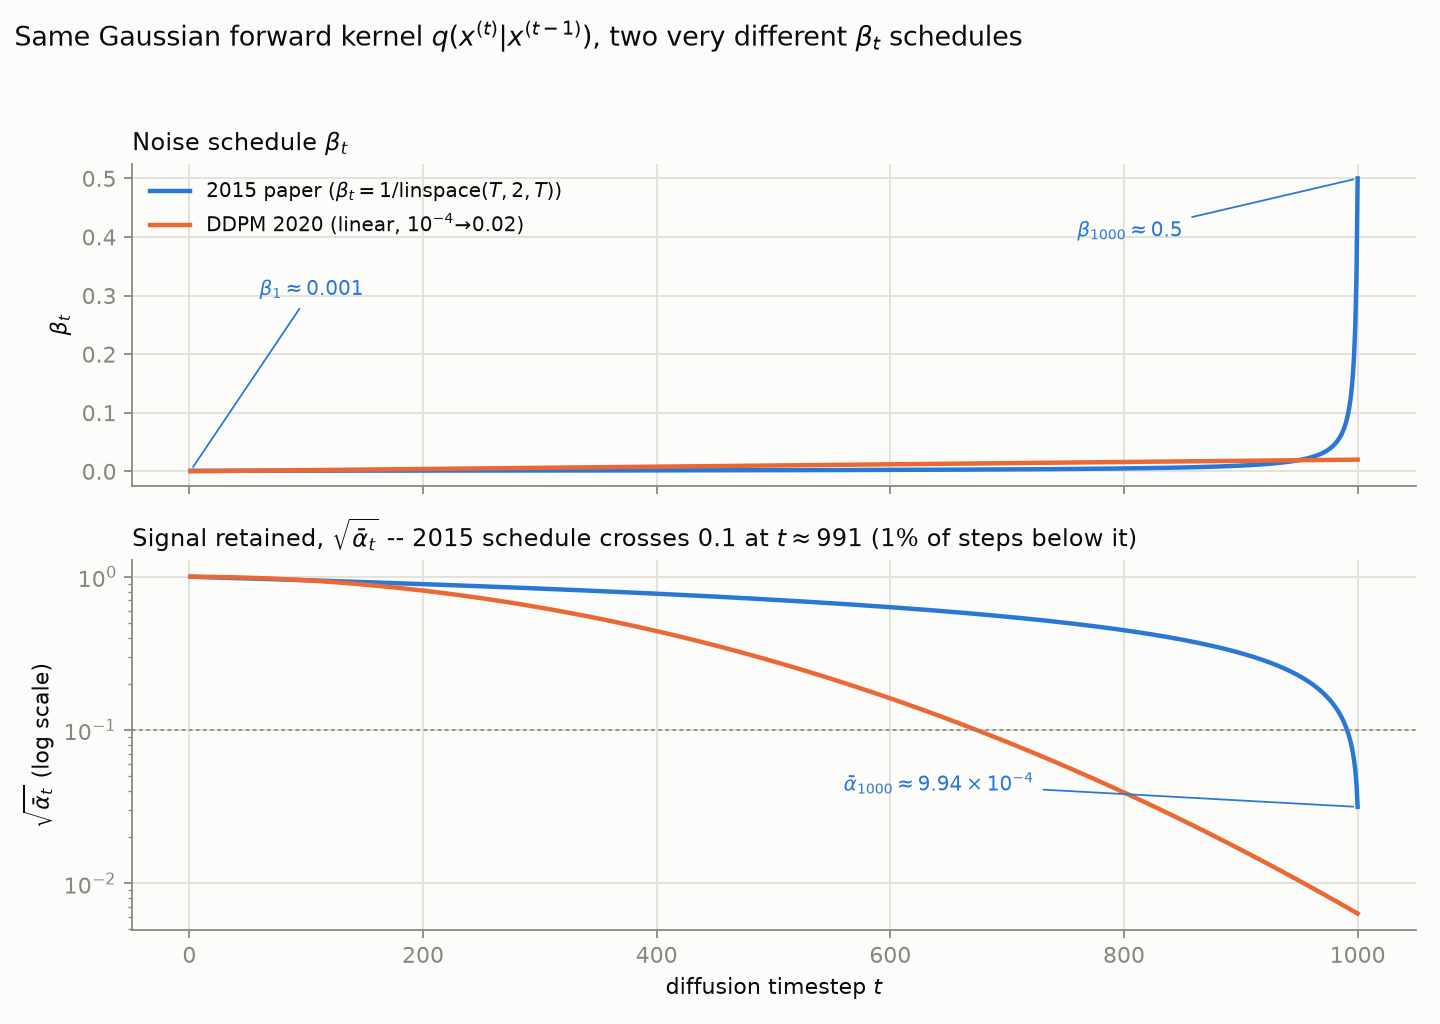
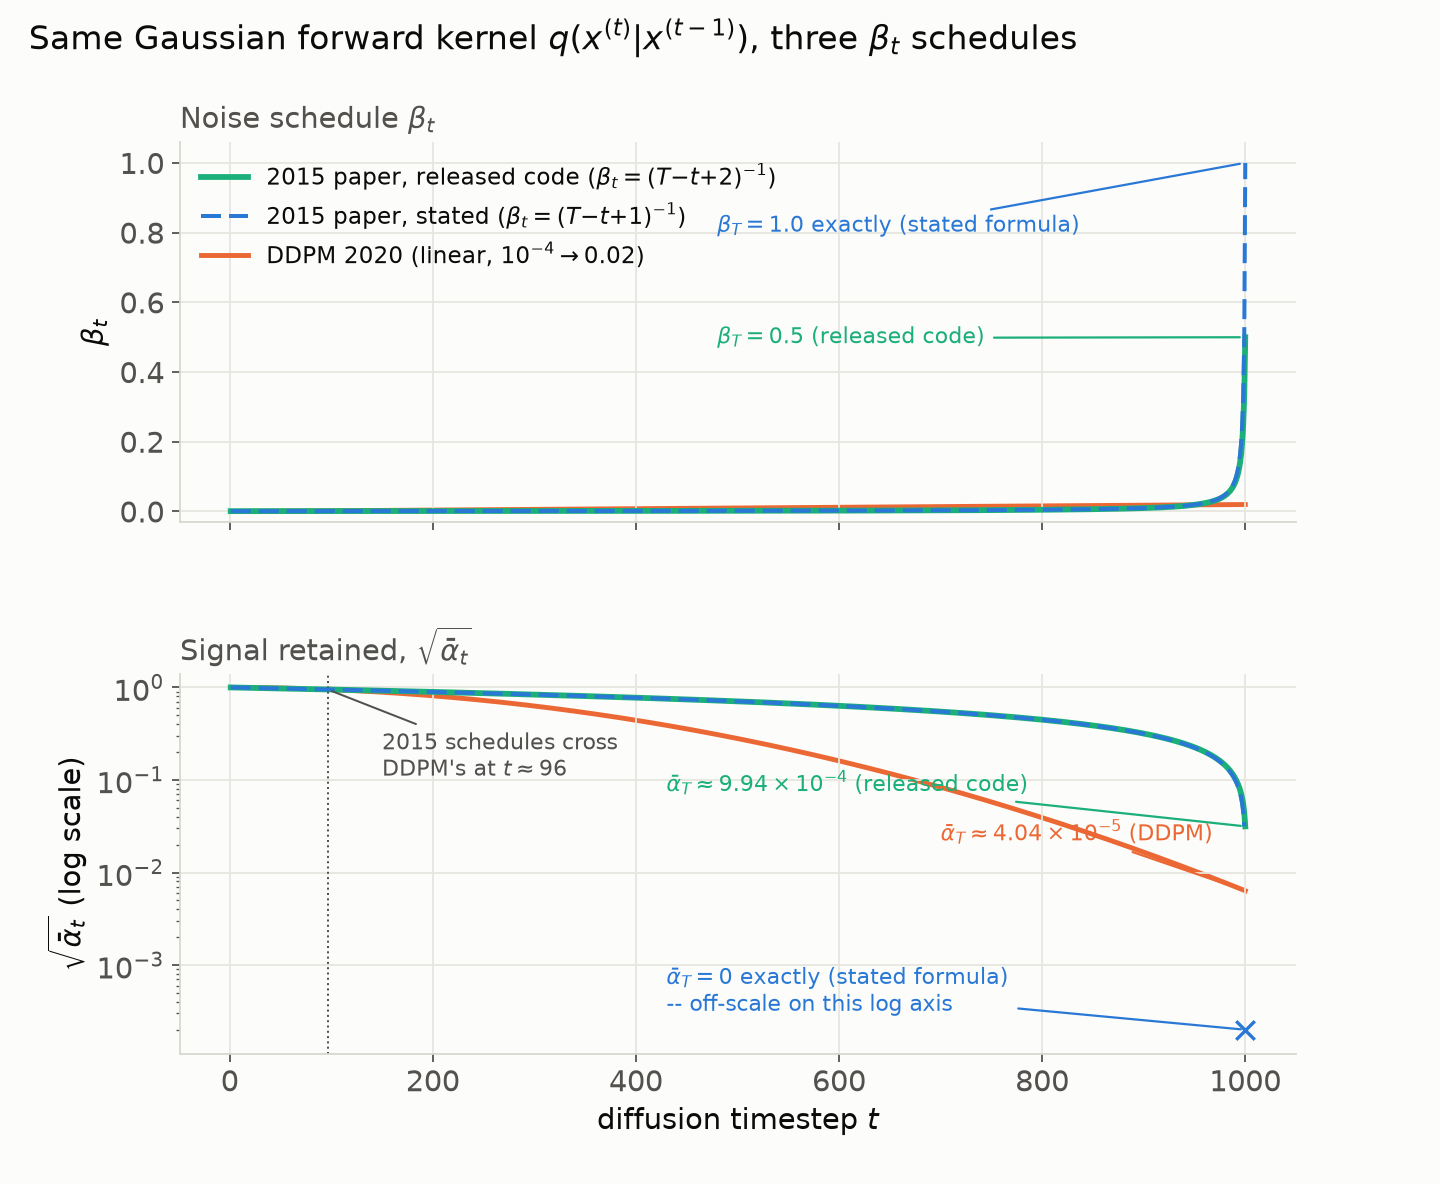
docs: fix review-pass findings in the diffusion paper review and audit posts
Corrects the beta-schedule section's attribution (the closed form is the
binomial schedule from Sec. 2.4.1, carried to Gaussian diffusion only on
footnote 2's authority) and its code (1/linspace(T,2,T) implements
(T-t+2)^-1, not the paper's stated (T-t+1)^-1). Adds a new paragraph and a
regenerated three-curve figure showing the paper's stated schedule and its
own released code disagree about the terminal alpha_bar (0 exactly vs.
~9.94e-4), and recomputes the real crossover against DDPM's schedule
(t~=96, not 800-900 steps as previously claimed).

Also fixes: a wrong "from-scratch" claim and an over-cleaned description of
the disk-generation result in the capstone post; a stale "a few days ago"
opening; a 3-and-1 vs. 2-and-2 miscount in the audit's difficulty ladder; a
"theoretical" mislabel of a measured activation-contraction figure, plus a
missing note that the spatial-std series plateaus at the fp32 floor; an
"exact kernel" overclaim for the network's zero-output limit that only
holds to first order in beta_t; a nine-vs-eleven-years arithmetic slip; a
1000-vs-999 sequential-evaluation inconsistency; a mislabeled "shared
width" for the temporal bump basis (it's the spacing between centers); a
527.4s vs. 527.3s arithmetic typo; a missing reciprocal Resources link
between the two companion posts; and an unsupported "main comparison
point" rationale in the paper-review's Table 1 caption.

diff --git a/_posts/2026-07-22-review-diffusion-probabilistic-models.md b/_posts/2026-07-22-review-diffusion-probabilistic-models.md
@@ -7,7 +7,7 @@ description: "A review of Sohl-Dickstein et al.'s Deep Unsupervised Learning usi
 author: seoultech
 image:
   path: assets/img/posts/paper-reviews/dpm-beta-schedule.png
-  alt: Two stacked line charts comparing the 2015 paper's beta_t noise schedule against DDPM's 2020 linear schedule, and the resulting sqrt(alpha_bar_t) signal-retention curves on a log scale
+  alt: Two stacked line charts comparing the 2015 paper's stated beta_t schedule, its own released code's beta_t schedule, and DDPM's 2020 linear schedule, and the resulting sqrt(alpha_bar_t) signal-retention curves on a log scale with the paper-formula curve's off-scale terminal zero annotated
 math: true
 mermaid: true
 ---
@@ -23,7 +23,7 @@ mermaid: true
 
 ## Why I Read This Paper
 
-I came to this paper backwards. A few days ago I published [an audit of a PyTorch reimplementation of this exact paper]({% post_url 2026-07-22-dpm-mnist-audit %}) -- a repo whose MNIST path trained a 329-million-parameter network down to a loss that turned out to be the analytic likelihood of a two-parameter constant Gaussian, because the forward posterior the paper's entire objective is built from was missing from the code. Fixing that meant reading the 2015 paper closely enough to know exactly which quantity was missing, and why the training sum starts at $t=2$, not $t=1$ -- a different kind of reading than a first-pass summary, and one that turns up things a plain walkthrough skips.
+I came to this paper backwards. This review grew out of [an audit of a PyTorch reimplementation of this exact paper]({% post_url 2026-07-22-dpm-mnist-audit %}) -- a repo whose MNIST path trained a 329-million-parameter network down to a loss that turned out to be the analytic likelihood of a two-parameter constant Gaussian, because the forward posterior the paper's entire objective is built from was missing from the code. Fixing that meant reading the 2015 paper closely enough to know exactly which quantity was missing, and why the training sum starts at $t=2$, not $t=1$ -- a different kind of reading than a first-pass summary, and one that turns up things a plain walkthrough skips.
 
 최민서's OUTTA review linked above covers the abstract, algorithm, and experiments end to end, derivations included, so I'm not re-deriving what it already derives well. This review is written from the seat of someone who has tried to run the thing: what a reader intending to *implement* the paper needs and a summary tends to smooth over -- an architectural detail that's a common source of bugs, a footnote that quietly kills half of DDPM's design space, a table cell that disagrees with the text next to it, and a sentence in Appendix C that is classifier guidance five to six years before anyone called it that.
 
@@ -68,7 +68,7 @@ Look at the **Training targets** row. For the Gaussian case, the schedule $\beta
 
 For the binomial case $\beta$ cannot be learned this way at all: "the discrete state space makes gradient ascent with frozen noise impossible" (§2.4.1), so it is set analytically to erase a constant fraction $1/T$ of signal per step, $\beta_t = (T-t+1)^{-1}$.
 
-Sampling (§2.2, Eq. 5) draws $x^{(T)} \sim \pi$ and runs the learned reverse kernel down to $x^{(0)}$, $T$ sequential network evaluations, no shortcuts. The paper is explicit these are **true samples**, not the final Gaussian's posterior mean -- a distinction its Figure App.1 caption calls out for MNIST.
+Sampling (§2.2, Eq. 5) draws $x^{(T)} \sim \pi$ and runs the learned reverse kernel down to $x^{(0)}$ -- $T-1$ sequential network evaluations plus the fixed final step (Eq. 44, Section 2 below), no shortcuts. The paper is explicit these are **true samples**, not the final Gaussian's posterior mean -- a distinction its Figure App.1 caption calls out for MNIST.
 
 ### 2. From an intractable integral to a trainable bound
 
@@ -116,16 +116,27 @@ But the sentence that matters most is a footnote on the word "learn" in that sam
 
 The paper spends a page justifying gradient ascent on $\beta$ with the reparameterization trick and "frozen noise," then, in a footnote, says it probably didn't need to. This is the direct textual ancestor of DDPM's decision, five years later, to fix $\beta_t$ to a hand-set schedule and drop it from the learned parameters entirely -- DDPM states that design choice without citing this footnote, but the idea is here first.
 
-That gives a natural comparison: the paper's own analytic schedule, apparently just as good for Gaussian diffusion per the footnote, is $\beta_t = (T-t+1)^{-1}$, i.e. `1/linspace(T, 2, T)`. DDPM's schedule is linear from $10^{-4}$ to $0.02$. Both are "fixed" in the sense the footnote endorses, but they look nothing alike:
+That gives a natural comparison, but it takes a moment to attribute correctly. The Gaussian case has no closed-form schedule of its own anywhere in this paper -- Table App.1's "Training targets" row, and the more careful text above it, both say $\beta_{2\ldots T}$ is *learned* for Gaussian diffusion, not given analytically. What footnote 2 licenses is reusing the schedule the paper derives for the *other* branch: the binomial case's closed form from Section 1 above, $\beta_t = (T-t+1)^{-1}$ (§2.4.1, where it's forced by "the discrete state space makes gradient ascent with frozen noise impossible" -- there's no gradient to take, so it has to be set analytically). That formula is never derived for Gaussian diffusion in this paper; footnote 2 is the entire justification for carrying it over. DDPM's schedule is linear from $10^{-4}$ to $0.02$. Both are "fixed" in the sense the footnote endorses, but they look nothing alike -- and, as the next two paragraphs show, the binomial formula's own closed form and the paper's own released code for it don't even agree with each other:
 
 ```python
-"""Compare the 2015 paper's schedule against DDPM's (2020) linear schedule.
-Self-contained: run with numpy installed."""
+"""Compare the 2015 paper's *stated* schedule, its own *released code*'s
+schedule, and DDPM's (2020) linear schedule. Self-contained: run with numpy
+installed."""
 import numpy as np
 
 
-def sohl_dickstein_2015_schedule(T: int) -> np.ndarray:
-    """beta_t = 1 / linspace(T, 2, T), Sec. 2.4.1 (beta_t = (T-t+1)^-1)."""
+def sohl_dickstein_2015_paper_schedule(T: int) -> np.ndarray:
+    """beta_t = (T-t+1)^-1 for t=1..T -- the binomial formula from Sec.
+    2.4.1, carried over to Gaussian diffusion on footnote 2's authority."""
+    t = np.arange(1, T + 1)
+    return 1.0 / (T - t + 1)
+# end def
+
+
+def sohl_dickstein_2015_released_code_schedule(T: int) -> np.ndarray:
+    """What the paper's own released Theano code actually computes
+    (model.py): beta_baseline = 1./np.linspace(trajectory_length, 2.,
+    trajectory_length) -- (T-t+2)^-1, not (T-t+1)^-1."""
     return 1.0 / np.linspace(T, 2, T)
 # end def
 
@@ -143,19 +154,27 @@ def alpha_bar(beta_t: np.ndarray) -> np.ndarray:
 
 
 T = 1000
-beta_2015, beta_ddpm = sohl_dickstein_2015_schedule(T), ddpm_2020_schedule(T)
-print(f"2015: beta_1={beta_2015[0]:.4f} beta_T={beta_2015[-1]:.2f} alpha_bar_T={alpha_bar(beta_2015)[-1]:.2e}")
-print(f"DDPM: beta_1={beta_ddpm[0]:.4f} beta_T={beta_ddpm[-1]:.2f} alpha_bar_T={alpha_bar(beta_ddpm)[-1]:.2e}")
-# 2015: beta_1=0.0010 beta_T=0.50 alpha_bar_T=9.94e-04
-# DDPM: beta_1=0.0001 beta_T=0.02 alpha_bar_T=4.04e-05
+beta_paper = sohl_dickstein_2015_paper_schedule(T)
+beta_code = sohl_dickstein_2015_released_code_schedule(T)
+beta_ddpm = ddpm_2020_schedule(T)
+print(f"paper formula: beta_1={beta_paper[0]:.4f} beta_T={beta_paper[-1]:.2f} alpha_bar_T={alpha_bar(beta_paper)[-1]:.2e}")
+print(f"released code: beta_1={beta_code[0]:.4f} beta_T={beta_code[-1]:.2f} alpha_bar_T={alpha_bar(beta_code)[-1]:.2e}")
+print(f"DDPM:          beta_1={beta_ddpm[0]:.4f} beta_T={beta_ddpm[-1]:.2f} alpha_bar_T={alpha_bar(beta_ddpm)[-1]:.2e}")
+# paper formula: beta_1=0.0010 beta_T=1.00 alpha_bar_T=0.00e+00
+# released code: beta_1=0.0010 beta_T=0.50 alpha_bar_T=9.94e-04
+# DDPM:          beta_1=0.0001 beta_T=0.02 alpha_bar_T=4.04e-05
 ```
 
-_This is the schedule math behind this post's cover image; the full plot (matplotlib, two stacked panels rather than one dual-axis panel, since $\beta_t$ and $\sqrt{\bar\alpha_t}$ live on incompatible scales) adds only plotting calls on top of the arrays above._
+Both closed forms above are exact, and worth setting side by side, because they disagree about where the trajectory ends. The **paper's stated formula**, $\beta_t = (T-t+1)^{-1}$, has an exact closed-form cumulative product: telescoping the product term by term gives $\bar\alpha_t = 1 - t/T$, no approximation. You can check this yourself -- at $t=500$, $T=1000$, that's $\bar\alpha_t = 1 - 500/1000 = 0.500000$ exactly. Which makes $\bar\alpha_T = 0$ exactly at $t=T$: the schedule really does erase a constant fraction $1/T$ of the original signal every step, all the way to nothing, exactly as its own "constant fraction of signal per step" framing (Section 1 above) claims.
 
-![Two stacked line charts comparing the 2015 paper's beta_t noise schedule against DDPM's 2020 linear schedule, and the resulting sqrt(alpha_bar_t) signal-retention curves on a log scale](/assets/img/posts/paper-reviews/dpm-beta-schedule.png)
-_Same Gaussian forward kernel, two very different $\beta_t$ schedules (original chart, computed and rendered for this post). The 2015 schedule ($\beta_1{\approx}0.001 \to \beta_{1000}{\approx}0.5$) holds more signal for the first 800-900 steps than DDPM's linear schedule does, then collapses almost all of it in the last ~1% of steps; DDPM's schedule bleeds signal away more evenly across the whole trajectory. Both reach $\bar\alpha_T$ near $10^{-3}$-$10^{-5}$, i.e. essentially no signal left by $t=T$, but by very different routes._
+The **paper's own released reference implementation** computes something else: `beta_baseline = 1./np.linspace(trajectory_length, 2., trajectory_length)`, i.e. $\beta_t = (T-t+2)^{-1}$, not $(T-t+1)^{-1}$ -- a one-index shift easy to miss if you transcribe `1/linspace(T, 2, T)` by eye and assume it matches the paper's prose formula. Push that recursion through the same telescoping argument and it also has a clean closed form, $\bar\alpha_t = (T-t+1)/(T+1)$, so $\bar\alpha_T = 1/(T+1) \approx 9.99\times10^{-4}$ -- not zero. Actually executing `1./np.linspace(T, 2, T)` for $T=1000$ (the print statements above) lands a hair below that, $\bar\alpha_T \approx 9.94\times10^{-4}$, because NumPy's `linspace` step between $T$ and $2$ is $(T-2)/(T-1) \approx 0.999$, not exactly $1$, so the array isn't quite the integer sequence $T, T-1, \ldots, 2$ the closed form assumes -- close enough at $T=1000$ that the two only disagree in the third significant figure.
 
-Worth being precise here: the companion audit post reports a third number easy to conflate with either schedule above, $\bar\alpha_T \approx 5.5\times10^{-14}$ with 79% of trained timesteps at $\sqrt{\bar\alpha_t} < 0.1$. That belongs to **neither** schedule above -- it's what the audited repo's pre-fix code actually ran, `beta = linspace(0.01, 0.05, 1000)`, steeper at both ends than DDPM's own schedule and unrelated to this paper's analytic form. Exactly the kind of mix-up worth checking directly against the source, not the first schedule-shaped array you find in someone's fork.
+So the paper's stated formula and the paper's own released code disagree about the terminal step: $\bar\alpha_T = 0$ exactly by the text, $\bar\alpha_T \approx 9.94\times10^{-4}$ by the code the same authors shipped. That's a **fourth internal inconsistency**, different in kind from the three cataloged at the end of this section -- those are text disagreeing with text; this is text disagreeing with code. It also matters more than the other three for anyone reimplementing this paper: the companion audit post's reimplementation traces back, through a chain of refactors, to this exact released repository, and `1./np.linspace(T, 2, T)` -- the released-code variant, not the paper's own stated formula -- is the schedule a reimplementer following that lineage actually inherits.
+
+![Three stacked-panel line charts comparing the 2015 paper's stated beta_t schedule, its own released code's beta_t schedule, and DDPM's 2020 linear schedule, and the resulting sqrt(alpha_bar_t) signal-retention curves on a log scale, with the paper-formula curve's off-scale terminal zero annotated](/assets/img/posts/paper-reviews/dpm-beta-schedule.png)
+_Same Gaussian forward kernel, three $\beta_t$ schedules (original chart, computed and rendered for this post). The paper's stated formula and its own released code track each other almost exactly until the last few steps ($\beta_1{=}0.001$ for both), since they differ by only one index; both cross above DDPM's linear schedule at $t\approx96$ -- about 9.6% into the trajectory -- and hold more signal than DDPM for the rest of the run. Only in the final step do the two 2015 curves split from each other: the stated formula's $\bar\alpha_t$ crashes to exactly $0$ (off-scale on this log axis, marked with an $\times$ at the floor), while the released code's $\bar\alpha_T \approx 9.94\times10^{-4}$ -- both still above DDPM's $\bar\alpha_T \approx 4.04\times10^{-5}$._
+
+Worth being precise here: the companion audit post reports a fourth number easy to conflate with any schedule above, $\bar\alpha_T \approx 5.5\times10^{-14}$ with 79% of trained timesteps at $\sqrt{\bar\alpha_t} < 0.1$. That belongs to **none** of the three schedules above -- it's what the audited repo's pre-fix code actually ran, `beta = linspace(0.01, 0.05, 1000)`, steeper at both ends than DDPM's own schedule and unrelated to either variant of this paper's analytic form. Exactly the kind of mix-up worth checking directly against the source, not the first schedule-shaped array you find in someone's fork.
 
 ### 4. The architecture: two pathways, and time is not an input
 
@@ -183,9 +202,9 @@ $$
 z^{\mu}_i = \sum_{j=1}^{J} y^{\mu}_{ij}\, g_j(t), \qquad g_j(t) = \frac{\exp\!\big(-(t-\tau_j)^2 / 2w^2\big)}{\sum_{k=1}^{J} \exp\!\big(-(t-\tau_k)^2 / 2w^2\big)}, \tag{62,63}
 $$
 
-with bump centers $\tau_j$ spread across $(0,T)$ and shared width $w$. This is a learned-coefficient, fixed-basis interpolation across timesteps -- the opposite of DDPM's approach, which shares one network across all $t$ and injects a sinusoidal position embedding into every residual block. A reimplementation that embeds $t$ as a network input, DDPM-style, builds the wrong architecture. Neither $J$ nor $w$ is ever given a numeric value in the paper -- treat both as unspecified.
+with bump centers $\tau_j$ spread across $(0,T)$, spaced $w$ apart -- $w$ is the **spacing between adjacent bump centers**, not a shared width parameter, despite also setting the Gaussian's variance in Eq. 63's denominator. Get that wrong and a reimplementation either spaces the bumps incorrectly or gives every bump a width unrelated to how densely they're packed. This is a learned-coefficient, fixed-basis interpolation across timesteps -- the opposite of DDPM's approach, which shares one network across all $t$ and injects a sinusoidal position embedding into every residual block. A reimplementation that embeds $t$ as a network input, DDPM-style, builds the wrong architecture. Neither $J$ nor $w$ is ever given a numeric value in the paper -- treat both as unspecified.
 
-The mean and diagonal covariance outputs are parameterized as small perturbations around the forward kernel itself, $\Sigma_{ii} = \sigma\big(z^\Sigma_i + \sigma^{-1}(\beta_t)\big)$ and $\mu_i = (x_i - z^\mu_i)(1-\Sigma_{ii}) + z^\mu_i$ (Eqs. 64-65) -- a network outputting all zeros reproduces the forward kernel exactly, so the network's job is only to predict a correction.
+The mean and diagonal covariance outputs are parameterized as small perturbations around the forward kernel itself, $\Sigma_{ii} = \sigma\big(z^\Sigma_i + \sigma^{-1}(\beta_t)\big)$ and $\mu_i = (x_i - z^\mu_i)(1-\Sigma_{ii}) + z^\mu_i$ (Eqs. 64-65) -- a network outputting all zeros recovers the forward kernel's variance exactly and its mean to first order in $\beta_t$ ($x_i(1-\beta_t)$ vs. the forward kernel's $x_i\sqrt{1-\beta_t}$; the two agree as $\beta_t \to 0$ but diverge at the large $\beta_t$ this schedule reaches near $t=T$), so the network's job is only to predict a correction.
 
 ### 5. Two ideas that resurfaced later, under different names
 
@@ -220,7 +239,7 @@ Strip the notation and this says: **shift the reverse-step mean by the covarianc
 | **CIFAR-10** | **5.4 ± 0.2 bits/pixel** | **11.5 ± 0.2 bits/pixel** |
 | MNIST | see Table 2 | see Table 2 |
 
-_Table 1 (numbers from the paper, Table 1; see Eq. 12 in the paper for the definition of $K$). $L_{\mathrm{null}}$ is the log-likelihood of the base distribution $\pi(x^{(0)})$ scored on the same data -- the right column is the improvement over that null model. All datasets except Binary Heartbeat were rescaled to unit variance before computing log-likelihood, and CIFAR-10 is the only row carrying an error bar (from the released reference implementation's standard-error report). CIFAR-10 is bold as the paper's main quantitative comparison point for natural images._
+_Table 1 (numbers from the paper, Table 1; see Eq. 12 in the paper for the definition of $K$). $L_{\mathrm{null}}$ is the log-likelihood of the base distribution $\pi(x^{(0)})$ scored on the same data -- the right column is the improvement over that null model. All datasets except Binary Heartbeat were rescaled to unit variance before computing log-likelihood, and CIFAR-10 is the only row carrying an error bar (from the released reference implementation's standard-error report). CIFAR-10 is bold as the highest $K$ in the table._
 
 Two caveats. These are differential-entropy-style bounds on unit-variance-rescaled continuous data, so **they are not on the same scale as modern bits/dim figures** on 8-bit discrete pixels (DDPM's $\le 3.75$ bits/dim on CIFAR-10) -- don't compare directly.
 
@@ -267,7 +286,7 @@ The paper exercises the Eq. 61 machinery twice. On CIFAR-10 (Figure 3), holdout 
 
 ## Conclusion & Insight
 
-This paper reads, nine years later, less like "one interesting idea" and more like a blueprint built out piece by piece by other people -- the forward/reverse Gaussian process, the per-step KL objective, the entropy bounds, and the guidance mechanism are all here in 2015 form, years before each became a headline result under someone else's name.
+This paper reads, eleven years later, less like "one interesting idea" and more like a blueprint built out piece by piece by other people -- the forward/reverse Gaussian process, the per-step KL objective, the entropy bounds, and the guidance mechanism are all here in 2015 form, years before each became a headline result under someone else's name.
 
 ### Strengths
 
@@ -279,7 +298,7 @@ This paper reads, nine years later, less like "one interesting idea" and more li
 ### Limitations
 
 - **No dedicated limitations section, no algorithm box.** The Conclusion is one paragraph with no critique of the method; every limitation here was assembled from scattered caveats, not a place the authors put together themselves.
-- **Cost scales linearly with trajectory length**, and the paper's own flexibility argument (smaller $\beta$ needs a longer trajectory) works directly against sampling speed -- 1000 sequential network evaluations for the image experiments, no shortcut available (this predates DDIM-style step-skipping by five years).
+- **Cost scales linearly with trajectory length**, and the paper's own flexibility argument (smaller $\beta$ needs a longer trajectory) works directly against sampling speed -- 999 sequential network evaluations for the image experiments ($T=1000$ for MNIST, CIFAR-10, and dead leaves; $T=500$ for bark), no shortcut available (this predates DDIM-style step-skipping by five years).
 - **The MNIST evaluation metric is weak**, and the paper's own "Perfect model" row proves it: ground-truth data scores only marginally above a working model, so the metric has limited power to separate good models from great ones.
 - **Key hyperparameters are simply missing.** $J$ and $w$ of the bump basis are never given numeric values; nor are parameter counts, learning rates, batch sizes, or wall-clock time for any image experiment. A from-scratch reproduction has to guess.
 - **Internal inconsistencies**, cataloged above, mean the paper can't quite be read as an unambiguous spec -- Table App.1 and the prose disagree twice, and one number (0.2 vs. 0.5) is only resolvable by doing the arithmetic yourself.

diff --git a/_posts/2026-07-22-dpm-mnist-audit.md b/_posts/2026-07-22-dpm-mnist-audit.md
@@ -160,7 +160,7 @@ Reconstruction degrades with $t$, which is expected -- less of the original sign
 
 Full unconditional MNIST generation -- sampling from pure Gaussian noise with no conditioning -- stayed speckle at epoch 8, 40, and 100 of the 5M-parameter run, despite the reconstruction test above working and the validation loss sitting at its floor since epoch 3.
 
-That leaves an ambiguous result: is the sampler/architecture still broken in some way the reconstruction test doesn't exercise, or is 10-class MNIST from pure noise just a hard generation problem for this size of model and training budget? A single failing run can't distinguish those. So the same architecture and training loop were pointed at three easier problems and one equally-hard one, and the samples were read qualitatively as well as by pixel histogram:
+That leaves an ambiguous result: is the sampler/architecture still broken in some way the reconstruction test doesn't exercise, or is 10-class MNIST from pure noise just a hard generation problem for this size of model and training budget? A single failing run can't distinguish those. So the same architecture and training loop were pointed at two easier problems and two runs at full difficulty, and the samples were read qualitatively as well as by pixel histogram:
 
 ```mermaid
 flowchart LR
@@ -221,7 +221,7 @@ A second, important caveat: the pixel-histogram summary can be fooled. Salt-and-
 
 ## Challenge 5: A 46M-Parameter Rewrite Didn't Fix It -- And That's Not a Contradiction
 
-Alongside the fidelity fixes, two architectural changes were tried: per-example timestep sampling (raising the number of distinct $t$ values touched per batch of 128 from 1 to a measured 120 -- close to the ~120 the birthday-problem estimate $N(1-e^{-k/N})$ predicts for drawing 128 samples with replacement from ~1000 timesteps), and residual connections to stop signal collapse through a deep stack. Two distinct measurements support this, and this post keeps them distinct rather than welding them into one ratio: the old 200-layer non-residual stack's **measured per-layer spatial std** collapsed from $3.10\times10^{-2}$ to $1.13\times10^{-8}$ by layer 7 alone -- a real, directly measured number. Separately, PyTorch's default init gives this kind of stack a **theoretical per-layer activation-contraction factor** of about $0.574\times$ absent residual connections (close to the standard $1/\sqrt{3}\approx0.577$ result for this init family) -- a different quantity, describing the expected contraction under default initialization rather than what was measured layer-by-layer above. Both are real; they are not the same number, and this post does not combine them into a single implied per-layer rate. The new 8-layer residual stack instead **grows**, $4.84\times10^{-2}$ to $4.35\times10^{-1}$. Parameter count went from 4,989,396 to 46,405,524.
+Alongside the fidelity fixes, two architectural changes were tried: per-example timestep sampling (raising the number of distinct $t$ values touched per batch of 128 from 1 to a measured 120 -- close to the ~120 the birthday-problem estimate $N(1-e^{-k/N})$ predicts for drawing 128 samples with replacement from ~1000 timesteps), and residual connections to stop signal collapse through a deep stack. Two distinct measurements support this, and this post keeps them distinct rather than welding them into one ratio: the old 200-layer non-residual stack's **measured per-layer spatial std** collapsed from $3.10\times10^{-2}$ to $1.13\times10^{-8}$ by layer 7 alone, then plateaus at that fp32 floor for the remaining layers -- a real, directly measured number, and one that stops moving right where a naive endpoint-to-endpoint extrapolation from just the first 7 layers would keep going. Separately measured per-layer activation contraction under PyTorch's default init: about $0.574\times$ absent residual connections (close to the standard $1/\sqrt{3}\approx0.577$ result for this init family) -- a different quantity from the spatial-std series above, not derived from it and not to be read as its per-layer rate. Both are real, measured numbers; they are not the same measurement, and this post does not combine them into a single implied per-layer rate -- doing that from just the two endpoints of the (already-plateaued) spatial-std series is exactly the kind of unwarranted extrapolation this paragraph exists to head off. The new 8-layer residual stack instead **grows**, $4.84\times10^{-2}$ to $4.35\times10^{-1}$. Parameter count went from 4,989,396 to 46,405,524.
 
 It did not fix unconditional full-MNIST generation at the budget this was run at (Challenge 4's "denser grey noise" row).
 
@@ -260,7 +260,7 @@ And it shouldn't be read as a regression either: the 46M run trained for 15 epoc
 | Cost (idle GPU) | 5M | 46M |
 |---|---:|---:|
 | Train step | 192.9 ms | 1,124.4 ms |
-| Train epoch (469 steps) | 90.5 s (check: $192.9\times469=90{,}470\,\mathrm{ms}\approx90.5\,\mathrm{s}$) | 527.4 s (check: $1124.4\times469=527{,}344\,\mathrm{ms}\approx527.4\,\mathrm{s}$) |
+| Train epoch (469 steps) | 90.5 s (check: $192.9\times469=90{,}470\,\mathrm{ms}\approx90.5\,\mathrm{s}$) | 527.3 s (check: $1124.4\times469=527{,}343.6\,\mathrm{ms}\approx527.3\,\mathrm{s}$) |
 | Reverse step | 34.3 ms | 208.9 ms |
 | Full 999-step chain, 64 images | 34.2 s / 535 ms per image | 208.7 s / 3,261 ms per image |
 | Peak VRAM, train / sample | 1,301 / 179 MiB | 5,577 / 637 MiB |
@@ -288,6 +288,7 @@ The reimplementation now trains something close to the right objective, and the 
 
 ## Resources
 
+- **Companion post** -- [the paper review: what the 2015 paper actually says, read from an implementer's seat]({% post_url 2026-07-22-review-diffusion-probabilistic-models %})
 - **Audited repo (pre-fix, as described in Challenge 2)**: [github.com/youngunghan/Deep-Unsupervised-Learning-using-Nonequilibrium-Thermodynamics](https://github.com/youngunghan/Deep-Unsupervised-Learning-using-Nonequilibrium-Thermodynamics)
 - **Original notebook** -- 최민서 (Choi Min-seo), [`Deep_Unsupervised_Learning_using_Nonequilibrium_Thermodynamics_mschoi.ipynb`](https://github.com/youngunghan/2025-OUTTA-Gen-AI/blob/main/Reviews/Diffusion/Deep_Unsupervised_Learning_using_Nonequilibrium_Thermodynamics_mschoi.ipynb), `2025-OUTTA-Gen-AI`
 - **Prior review** -- 최민서, ["Deep Unsupervised Learning using Nonequilibrium Thermodynamics" 논문 리뷰](https://outta.tistory.com/109), OUTTA AI Tech Blog, 2025-01-03

diff --git a/_posts/2026-06-22-numbers-eat-pipelines.md b/_posts/2026-06-22-numbers-eat-pipelines.md
@@ -35,7 +35,7 @@ Same shape as the first failure mode: the scalar could be computed correctly whi
 
 ## Failure mode #3 — a converged loss that wasn't
 
-A from-scratch reimplementation of Sohl-Dickstein et al. 2015 (arXiv:1503.03585) had its MNIST validation loss pinned at 0.9424–0.9426 for thousands of batches. A flat loss reads as convergence — until you compute what a trivial baseline costs on the same objective. Normalized to [-1, 1], MNIST test has global mean -0.7350 and std 0.6210; the analytic NLL of the best constant two-scalar Gaussian fit to that data is 0.9425. A 329,452,500-parameter model was matching a two-parameter baseline to four significant figures. The root cause: the forward posterior `q(x^(t-1)|x^(t),x^(0))` — the term the paper's entire training objective is built from — appeared nowhere in the image-model code path. The [full audit is here]({% post_url 2026-07-22-dpm-mnist-audit %}).
+A public PyTorch reimplementation of Sohl-Dickstein et al. 2015 (arXiv:1503.03585) had its MNIST validation loss pinned at 0.9424–0.9426 for thousands of batches. A flat loss reads as convergence — until you compute what a trivial baseline costs on the same objective. Normalized to [-1, 1], MNIST test has global mean -0.7350 and std 0.6210; the analytic NLL of the best constant two-scalar Gaussian fit to that data is 0.9425. A 329,452,500-parameter model was matching a two-parameter baseline to four significant figures. The root cause: the forward posterior `q(x^(t-1)|x^(t),x^(0))` — the term the paper's entire training objective is built from — appeared nowhere in the image-model code path. The [full audit is here]({% post_url 2026-07-22-dpm-mnist-audit %}).
 
 Same smell as the other two, with a twist specific to this domain: the samples were visibly noise while the loss looked converged, and nobody caught it by eye because `torchvision`'s `make_grid(normalize=True)` min-max-stretches degenerate output to full contrast before rendering. A near-uniform noise tensor gets stretched until it looks like a normal-contrast image in TensorBoard — the rendering pipeline hid the failure exactly the way the wrong feature space hid the FID one.
 
@@ -66,7 +66,7 @@ Distrust applies to your *explanations*, not just your *measurements*. Once the 
 
 So I [tested it instead of assuming it]({% post_url 2026-06-18-killing-the-d-dominance-hypothesis %}): four single-seed configurations bundled EMA, separate learning rates, label smoothing, and reduced D-update frequency against a pre-registered decision rule. None robustly broke the baseline-equivalent band, which lowered the priority of those settings but did not reject D-dominance generally. A later single DiffAugment run produced a lower same-N estimate, [163 → 118.5]({% post_url 2026-06-19-can-diffaugment-break-the-fid-ceiling %}); without repeated seeds or overfitting diagnostics, that supports a promising intervention rather than proving its mechanism.
 
-The [diffusion audit's difficulty ladder]({% post_url 2026-07-22-dpm-mnist-audit %}) is the same move again, run cheaper. Once the training objective was fixed, full-MNIST generation still came out as speckle, and the tempting hypothesis was "the sampler or architecture is still broken." Training the larger model long enough for a fair verdict on full MNIST would have cost something like 14.6 GPU-hours -- the 5M run's 46,900 steps at the 46M model's measured 1,124.4 ms/step train rate. Instead, the same image path was pointed at strictly easier data: synthetic disks generated cleanly (0.000 mid-tone fraction, raw output std 0.593), a single MNIST class ("1") produced correctly-oriented but fragmented strokes, and full MNIST alone stayed speckle. That reprioritized the hypothesis from "the sampler is broken" to "the data is harder than the training budget," for roughly 35 minutes of compute. As with the D-dominance sweep, this is a prioritization result, not a causal proof — it makes one explanation more worth chasing first, not the only one left standing.
+The [diffusion audit's difficulty ladder]({% post_url 2026-07-22-dpm-mnist-audit %}) is the same move again, run cheaper. Once the training objective was fixed, full-MNIST generation still came out as speckle, and the tempting hypothesis was "the sampler or architecture is still broken." Training the larger model long enough for a fair verdict on full MNIST would have cost something like 14.6 GPU-hours -- the 5M run's 46,900 steps at the 46M model's measured 1,124.4 ms/step train rate. Instead, the same image path was pointed at strictly easier data: synthetic disks produced solid but irregular blobs (0.000 mid-tone fraction, raw output std 0.593), a single MNIST class ("1") produced correctly-oriented but fragmented strokes, and full MNIST alone stayed speckle. That reprioritized the hypothesis from "the sampler is broken" to "the data is harder than the training budget," for roughly 35 minutes of compute. As with the D-dominance sweep, this is a prioritization result, not a causal proof — it makes one explanation more worth chasing first, not the only one left standing.
 
 The economics still matter. A cheap screen can tell you whether to spend the next week on a direction, and the evaluation-leakage audit is the same move pointed inward: **challenging your own evaluation is cheaper than having a reviewer or production challenge it for you.** A causal rejection needs one-factor ablations, repeated seeds, uncertainty and mechanism-specific diagnostics; this sweep was a prioritization result, not that stronger experiment.
 